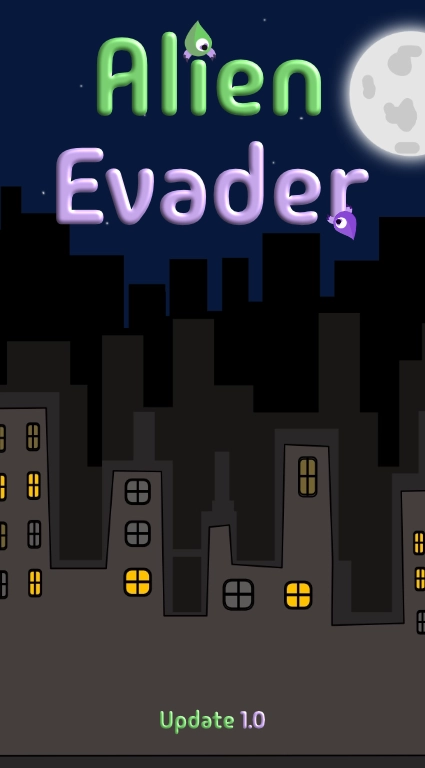
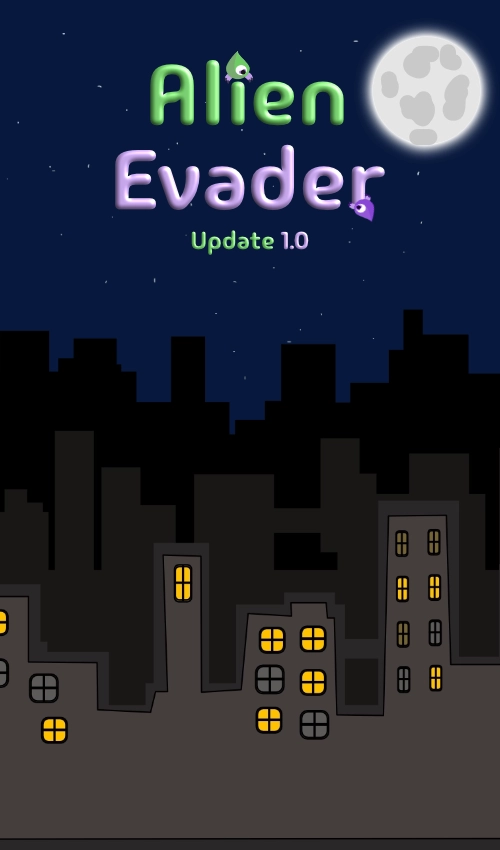
Fix: Main Menu incorrectly appearing on mobile devices.

diff --git a/assets/js/script.js b/assets/js/script.js
@@ -1,100 +1,113 @@
-import Phaser from './lib/phaser.js'
+import Phaser from './lib/phaser.js';
+import gamemenu from './scenes/gamemenu.js';
+import gamehowtoplay from './scenes/gamehowtoplay.js';
+import gameScene from './scenes/game.js';
+import gameover from './scenes/gameover.js';
+import gameovertwo from './scenes/gameovertwo.js';
 
-import gamemenu from './scenes/gamemenu.js'
-
-import gamehowtoplay from './scenes/gamehowtoplay.js'
-
-import game from './scenes/game.js'
-
-import gameover from './scenes/gameover.js'
-
-import gameovertwo from './scenes/gameovertwo.js'
-
-// Phaser game basic setup code
-
-function initializeGame() {
-    const gameWidth = document.getElementById('gameContainer').offsetWidth;
-    const gameHeight = document.getElementById('gameContainer').offsetHeight;
-
-    return new Phaser.Game({
-        type: Phaser.CANVAS,
-        width: gameWidth,
-        height: gameHeight,
-        scene: [gamemenu, gamehowtoplay, game, gameover, gameovertwo],
-        physics: {
-            default: 'arcade',
-            arcade: {
-                gravity: {
-                    x: -10
-                },
-                debug: false
-            }
-        },
-        canvas: document.getElementById('gameCanvas')
-    });
-}
-
-// When DOM content is loaded, activate game
 document.addEventListener('DOMContentLoaded', () => {
-    initializeGame();
-});
+    const container = document.getElementById('gameContainer');
+    const gameCanvas = document.getElementById('gameCanvas');
 
-// Form functionality to send users to thankyou.html page
+    if (container && gameCanvas) {
+        // Ensure canvas has no margin or padding
+        setCanvasStyles(gameCanvas);
 
-$(document).ready(function () {
-    $('#feedback-form').submit(function (event) {
-        event.preventDefault();
-        validateForm(event);
+        const containerWidth = container.clientWidth;
+        const containerHeight = container.clientHeight;
+
+        // Declare the game variable in the outer scope
+        let phaserGame = new Phaser.Game({
+            type: Phaser.CANVAS,
+            width: containerWidth,
+            height: containerHeight,
+            scale: {
+                mode: Phaser.Scale.NONE,
+                autoCenter: Phaser.Scale.CENTER_BOTH
+            },
+            scene: [gamemenu, gamehowtoplay, gameScene, gameover, gameovertwo],
+            physics: {
+                default: 'arcade',
+                arcade: {
+                    gravity: { y: 0 },
+                    debug: false
+                }
+            },
+            canvas: gameCanvas
+        });
+
+        // Resize the game canvas when the window is resized
+        window.addEventListener('resize', () => {
+            const newWidth = container.clientWidth;
+            const newHeight = container.clientHeight;
+            phaserGame.scale.resize(newWidth, newHeight);
+
+            // Ensures canvas stays without margin or padding
+            setCanvasStyles(gameCanvas);
+        });
+
+    } else {
+        console.error('Game container or canvas element not found');
+    }
+
+    // Form functionality to send users to thankyou.html page
+    $(document).ready(function () {
+        $('#feedback-form').submit(function (event) {
+            event.preventDefault();
+            validateForm(event);
+        });
     });
-});
 
-function validateForm(event) {
-    event.preventDefault();
+    function validateForm(event) {
+        event.preventDefault();
 
-    var formElements = document.getElementById("feedback-form").elements;
-    var isValid = true;
+        const formElements = document.getElementById("feedback-form").elements;
+        let isValid = true;
 
-    for (var i = 0; i < formElements.length; i++) {
-        var element = formElements[i];
-        if (element.dataset.type && element.value.trim() === "") {
-            alert("Please fill out all available fields");
-            isValid = false;
-            break;
+        for (let i = 0; i < formElements.length; i++) {
+            const element = formElements[i];
+            if (element.dataset.type && element.value.trim() === "") {
+                alert("Please fill out all available fields");
+                isValid = false;
+                break;
+            }
         }
+
+        if (isValid) {
+            // If all fields are filled in, this will send user to thankyou.html
+            window.location.href = "thankyou.html";
+            console.log('This triggers if form is validated');
+        }
+
+        return isValid;
     }
 
-    if (isValid) {
-        // If all fields are filled in, this will send user to thankyou.html
-        window.location.href = "thankyou.html";
-        console.log('This triggers if form is validated')
-    }
-
-    return isValid;
-
-}
-// Pop Up Message notice functionality for 768px screens & below
-
-document.addEventListener('DOMContentLoaded', function () {
-    // Function to dismiss the pop-up message
+    // Pop Up Message notice functionality for 768px screens & below
     function dismissWarning() {
-        var popUpMessage = document.querySelector('.popup-message');
+        const popUpMessage = document.querySelector('.popup-message');
         if (popUpMessage) {
             popUpMessage.classList.add('hidden');
         }
     }
 
-    // Display the pop-up message if the screen width is <= 768
-    if (window.innerWidth <= 800) {
-        var popUpMessage = document.querySelector('.popup-message');
+    if (window.matchMedia('(max-width: 800px)').matches) {
+        const popUpMessage = document.querySelector('.popup-message');
         if (popUpMessage) {
             popUpMessage.classList.remove('hidden');
 
-            // Attach event listener to the dismiss button for click and touch events
-            var dismissBtn = document.querySelector('.dismiss-btn');
+            const dismissBtn = document.querySelector('.dismiss-btn');
             if (dismissBtn) {
                 dismissBtn.addEventListener('click', dismissWarning);
-                dismissBtn.addEventListener('touchend', dismissWarning);
+                dismissBtn.addEventListener('touchend', dismissWarning, { passive: true });
             }
         }
     }
 });
+
+function setCanvasStyles(canvas) {
+    canvas.style.margin = '0';
+    canvas.style.padding = '0';
+    canvas.style.position = 'absolute';
+    canvas.style.top = '0';
+    canvas.style.left = '0';
+}

diff --git a/assets/js/scenes/gamemenu.js b/assets/js/scenes/gamemenu.js
@@ -3,7 +3,6 @@ import Phaser from '../lib/phaser.js';
 export default class gamemenu extends Phaser.Scene {
     constructor() {
         super('game-menu');
-
         this.backgroundMusic = null;
         this.isMuted = true;
     }
@@ -16,14 +15,11 @@ export default class gamemenu extends Phaser.Scene {
 
     create() {
         const screenWidth = window.innerWidth;
-        const screenHeight = window.innerHeight;
 
         if (screenWidth <= 560) {
 
-            const background = this.add.image(screenWidth / 2, screenHeight / 2, 'gamemenuscrtwo').setOrigin(0.5);
-
-            const scaleFactor = 0.1;
-            background.setScale(scaleFactor);
+            const background = this.add.image(-55, 0, 'gamemenuscrtwo').setOrigin(0, 0);
+            background.setScale(1);
 
             const startButton = document.querySelector('[data-type="start-btn"]');
             startButton.classList.remove('hidden');
@@ -47,7 +43,8 @@ export default class gamemenu extends Phaser.Scene {
             gameScoring.classList.add('hidden');
         } else {
             // The Game Menu image
-            this.add.image(0, 0, 'gamemenuscr').setOrigin(0, 0);
+            const background = this.add.image(0, 0, 'gamemenuscr').setOrigin(0, 0);
+            background.setScale(1);
 
             const startButton = document.querySelector('[data-type="start-btn"]');
             startButton.classList.remove('hidden');

diff --git a/assets/css/style.css b/assets/css/style.css
@@ -126,7 +126,23 @@ main {
 #gameCanvas {
     width: 100%;
     height: 100%;
+    margin: 0 !important;
+    padding: 0;
+    display: block;
+    position: absolute; 
+    top: 0;
+    left: 0;
 }
+
+#gameContainer {
+    width: 100%;
+    height: 100vh;
+    position: relative;
+    overflow: hidden;
+    margin: 0;
+    padding: 0; 
+}
+
 
 /* Game Start Button styling */
 .start-btn {
@@ -716,6 +732,13 @@ footer {
         z-index: 90;
     }
 
+    #gameCanvas {
+        width: 100%;
+        height: 100%;
+        display: block;
+        position: absolute;
+    }
+
     .start-btn {
         width: 200px;
         height: 100px;
@@ -760,8 +783,9 @@ footer {
         width: 95%;
         height: 300px;
         text-align: center;
+        position: relative;
         justify-content: center;
-        top: 200px;
+        top: 0;
 
     }
 
